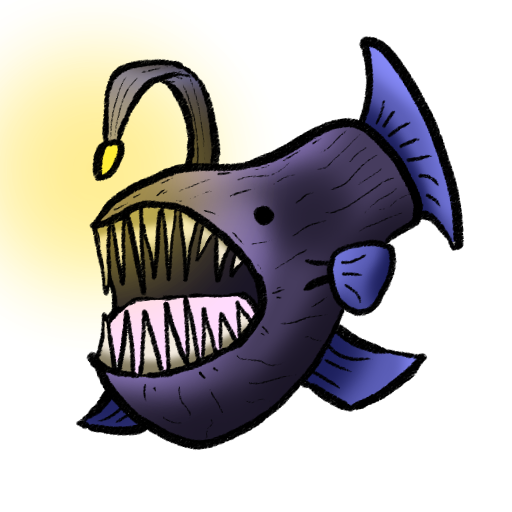
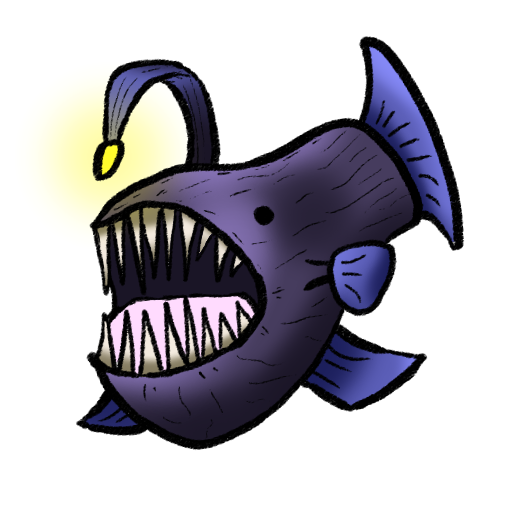
updated image and started relations

Changed region(s): [[0.0, 0.0625, 0.4688, 0.625]]

diff --git a/src/db/schema.ts b/src/db/schema.ts
@@ -1,4 +1,5 @@
 import { int, sqliteTable, text } from "drizzle-orm/sqlite-core";
+import { relations } from "drizzle-orm";
 
 export const userTable = sqliteTable("user", {
   id: int().primaryKey({ autoIncrement: true }),
@@ -12,6 +13,13 @@ export const packTable = sqliteTable("pack", {
   user_id: int().notNull(),
   set_id: int().notNull(),
 });
+
+export const packRelations = relations(packTable, ({ one }) => ({
+  user: one(userTable, {
+    fields: [packTable.user_id],
+    references: [userTable.id],
+  }),
+}));
 
 export const cardTable = sqliteTable("card", {
   id: int().primaryKey({ autoIncrement: true }),

diff --git a/src/index.ts b/src/index.ts
@@ -143,7 +143,7 @@ const commands: Command[] = [
         await db.delete(packTable).where(eq(packTable.id, packToOpen?.id!));
 
         // get the cardTypes that may exist within this pack
-        const cardTypes = await db
+        const cardTypes = await db // TODO get everything I need with a join here to also have rarity stuffs
           .select()
           .from(cardtypeTable)
           .where(eq(cardtypeTable.set_id, packToOpen?.set_id!));
